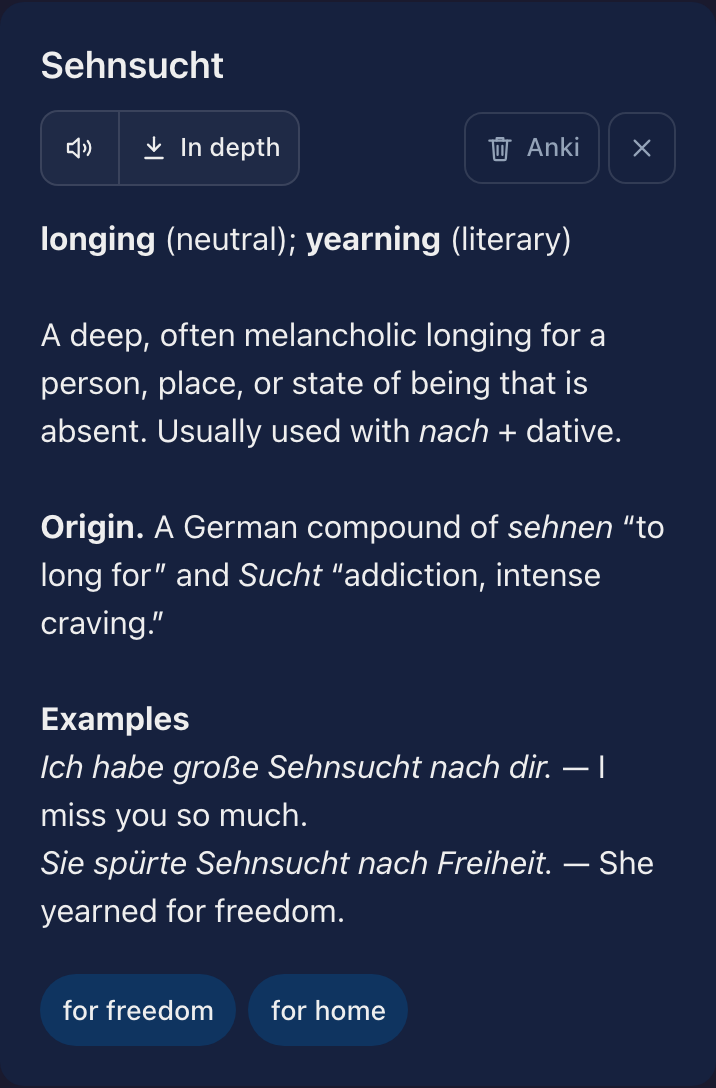
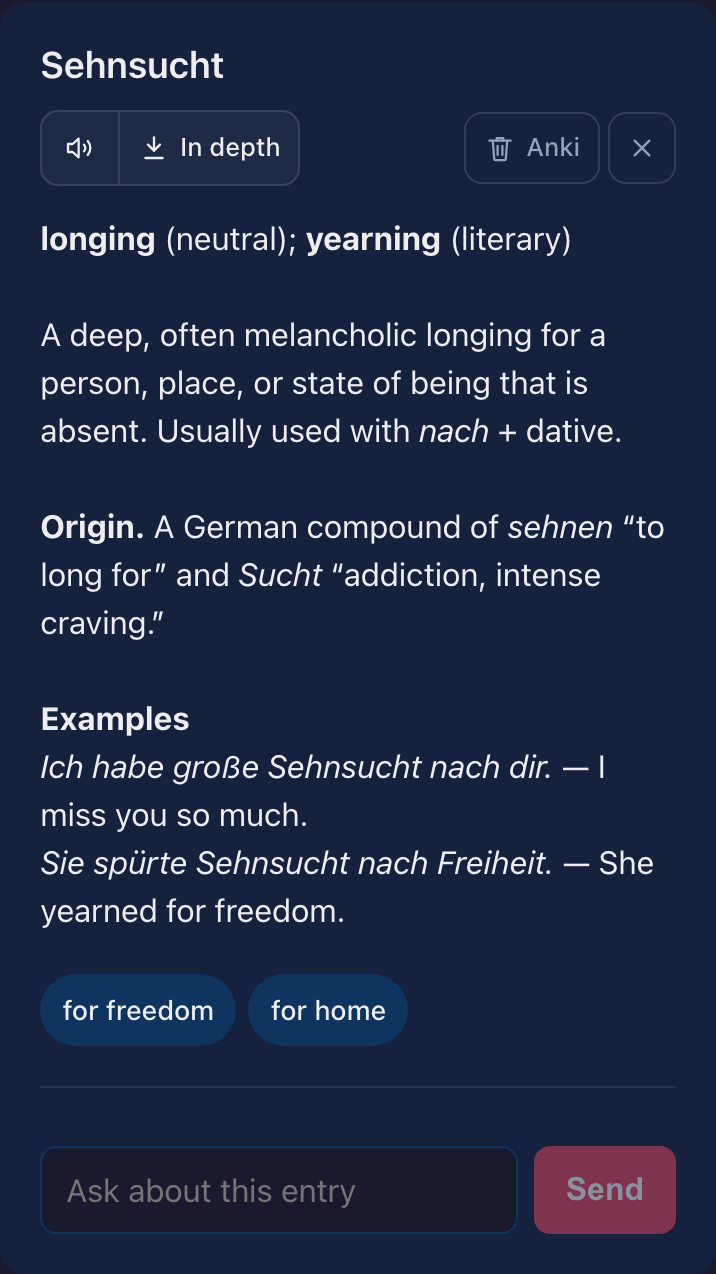
Spec: the question field as shipped; screenshots recaptured; plan status

diff --git a/spec/functional-description.md b/spec/functional-description.md
@@ -814,18 +814,30 @@ Kept minimal — everything beyond typing a word:
   section opened under the analysis with a line saying roughly how long it
   takes. The page scrolls that section into view, so the reader watches the
   article being written rather than a spinner at the top of a long card.
-- **Follow-up questions** — on a finished word entry, a question about anything
-  on it, answered in the target language from what the reader is looking at: the
+- **Follow-up questions** — under every finished word or expression entry, lookups
+  and entries whose Anki save failed included, stands a question field with a Send
+  button, as in any chat; running text has none. A question is about anything on that
+  entry, answered in the target language from what the reader is looking at: the
   analysis, the chips under it, the deeper article when there is one, and the
   questions already answered on that entry, in order. The page sends all of it with
   each question, so an entry kept in the browser can still be asked about after a
-  restart has emptied the server. The reply streams to the browser that asked, and
-  only the free pool answers it: explaining what is already on the card is not worth
-  a paid call, and quoting a deeper article already bought buys nothing new. A pool
-  that cannot answer is a failure the reader can retry. Asking never touches the
-  card, its audio, the deeper article or the history. A question too long, or an
-  entry and conversation too long for a model to be given, is refused with its limit
-  before any model is asked. The endpoint stands, but no control offers it.
+  restart has emptied the server. A question sent while the deeper article is still
+  being written waits for the article to finish. The question shows under the entry
+  at once and the reply streams in beneath it, both as plain text; the exchanges stack
+  above the field. Each entry keeps its own conversation and its unsent draft in the
+  browser's history: they survive a reload, stay readable offline, leave with the
+  entry when it is removed or evicted and come back with it on undo; an entry from
+  before the field existed opens with none. One question is answered at a time per
+  entry, and a reply keeps to the entry that asked it while the reader is on another
+  card. A reply cut off by a lost connection or a reload, a question sent with no
+  connection, and a pool that could not answer all leave the question in place,
+  marked as such, with a Retry beside it that fills that same place; only finished
+  replies are given to the next question. Only the free pool answers: explaining what
+  is already on the card is not worth a paid call, and quoting a deeper article already
+  bought buys nothing new. Asking never touches the card, its audio, the deeper article
+  or the analysis. A question too long, or an entry and conversation too long for a
+  model to be given, is refused with its limit before any model is asked; the refusal
+  shows under the field and the question goes back into it.
 - **Rebuild the card** — rewriting an existing note with the paid model. The
   pipeline path and its endpoint stand, but **no control offers it**: the
   reader never sees the note, and the plain translation a card needs is what

diff --git a/spec/decision-interface.md b/spec/decision-interface.md
@@ -270,6 +270,20 @@ paid for is what pushed itself off the screen. Rewriting an existing note with t
 translation a card needs is what the free model gets right the first time. The
 endpoint and its pipeline path stand; only the button went.
 
+**A question about the entry is a chat line at its foot.** Under every finished word
+entry stands one text field and a Send button, always there, with no toggle, no
+separate view and no mode — the operator's choice of 2026-11-25: just an input field
+below with a send button, like any chat. The exchanges stack between the entry and
+the field, the reader's question at once and the reply streaming under it, both shown
+as plain text whatever they contain. The field and the replies belong to typing and
+selection, like the reading text, so the card is still swiped from its margins and
+its row of controls; Enter sends. While one reply is still coming in, Send waits, and
+each conversation stays with its entry rather than with the screen: a reader who
+swipes away mid-reply finds it finished on return. A reply that never finished is not
+dropped and not silently repeated: it is marked as cut off, or as not sent, with a
+Retry in its own place. The conversation lives in the browser's history beside the
+entry it is about, so it lasts as long as that entry does and no longer.
+
 ## The theme follows the system
 
 Status: **decided 2026-09-03.** Pinning dark was never a decision, only a

diff --git a/spec/plan/word-card-follow-ups.md b/spec/plan/word-card-follow-ups.md
@@ -14,7 +14,16 @@ first run of the earlier, longer prompt is in `experiments/.bench-follow-up`; th
 prompt ran once on the free pool on 2026-11-25 into `experiments/.bench-follow-up-2`:
 6 of 6 answered, all by google-gemini-3.5-flash-lite, one reply (base-en-reluctant)
 three tokens long (a provider stop, with the operator). That run is the step's only
-re-run. Step 2 is not started; the PWA has no control for it yet.
+re-run. Step 2 is built and awaiting review: `EntryQuestions.vue` (field, Send, the
+stacked turns, cut-off notes with Retry) under every finished unit entry in
+`EntryCard.vue`; `useFollowUps.js` (turns and the draft stored on the entry in the
+history, one live question per entry, waiting for a streaming article, retry in place,
+completed turns only as context, refusals shown and not stored); `api/ask.js` reading
+the endpoint's event stream; the chip wording shared through `entryChips.js`. Tests:
+`webapp/tests/useFollowUps.test.js`, `webapp/tests/EntryQuestions.test.js`, two
+`AddView` tests, and `tests/test_e2e_follow_ups.py`. The functional description and
+`spec/decision-interface.md` describe the shipped field; the add-word, card-added and
+cyrillic-card screenshots were recaptured. Nothing the model is asked changed.
 
 ## What the reader can do
 
